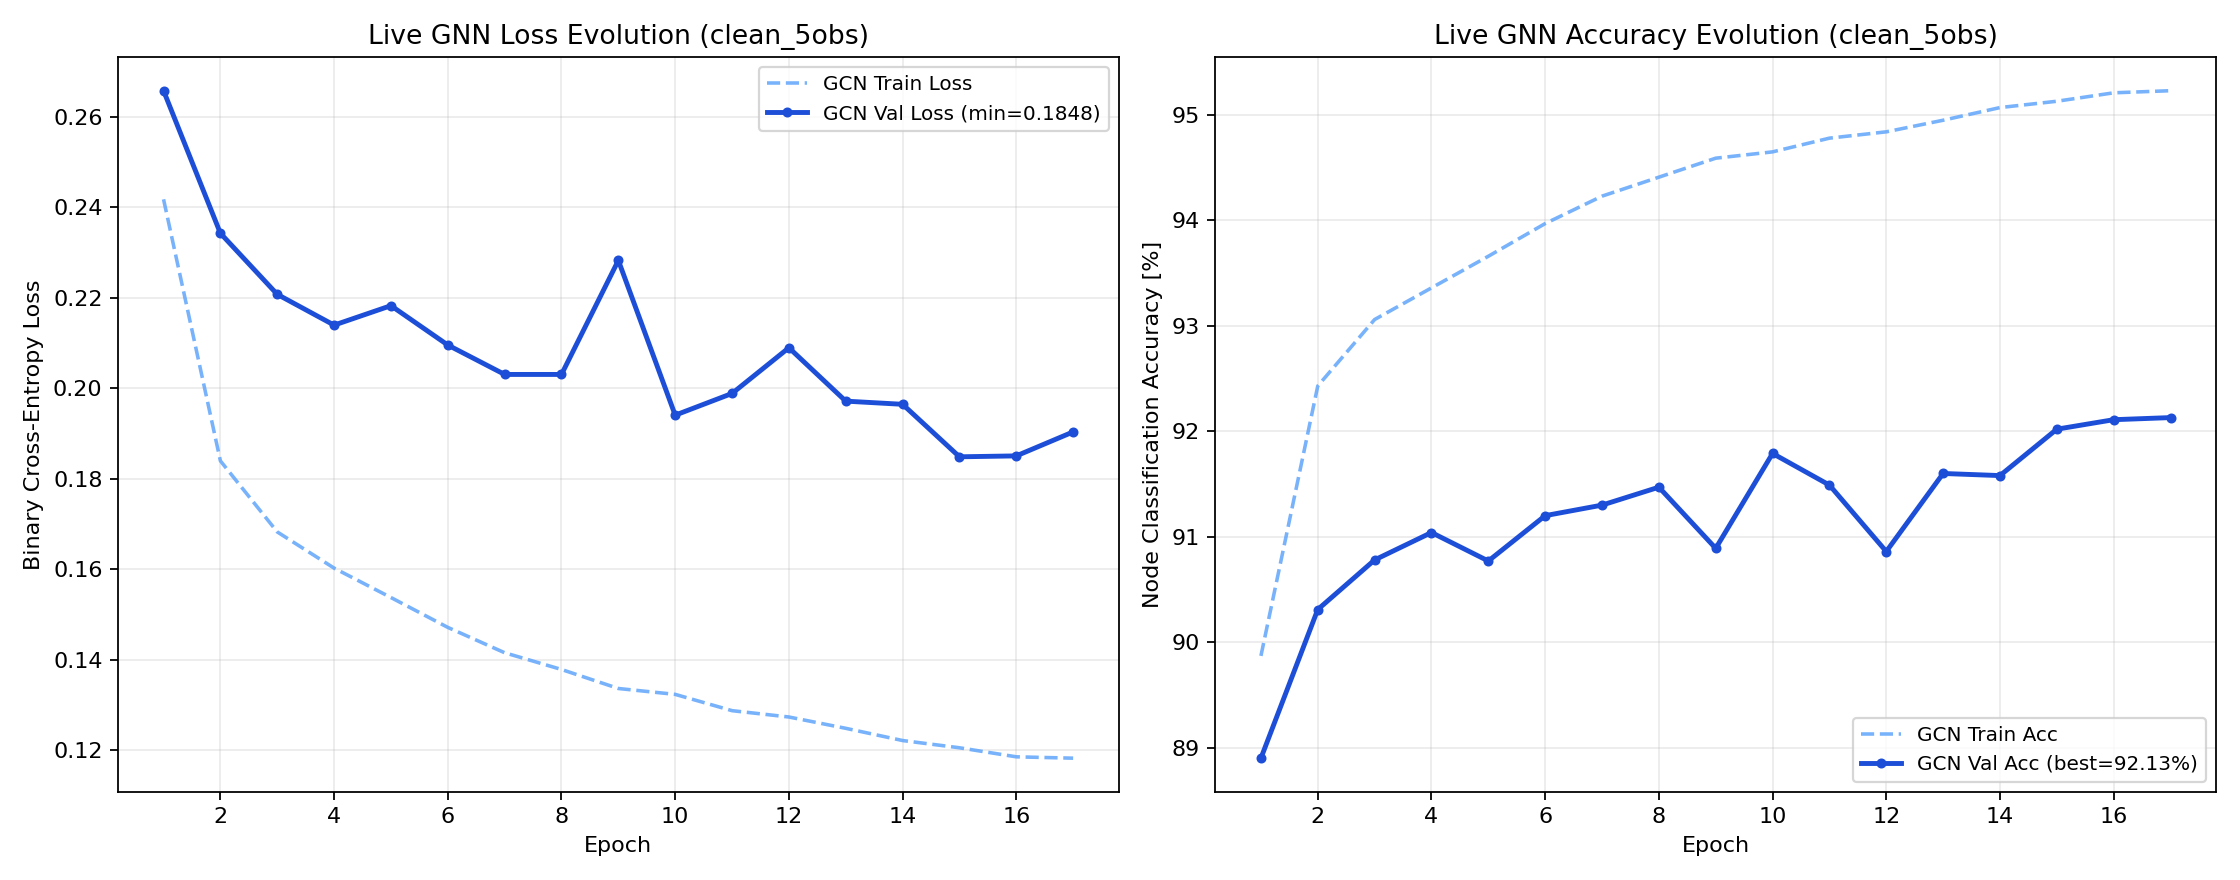
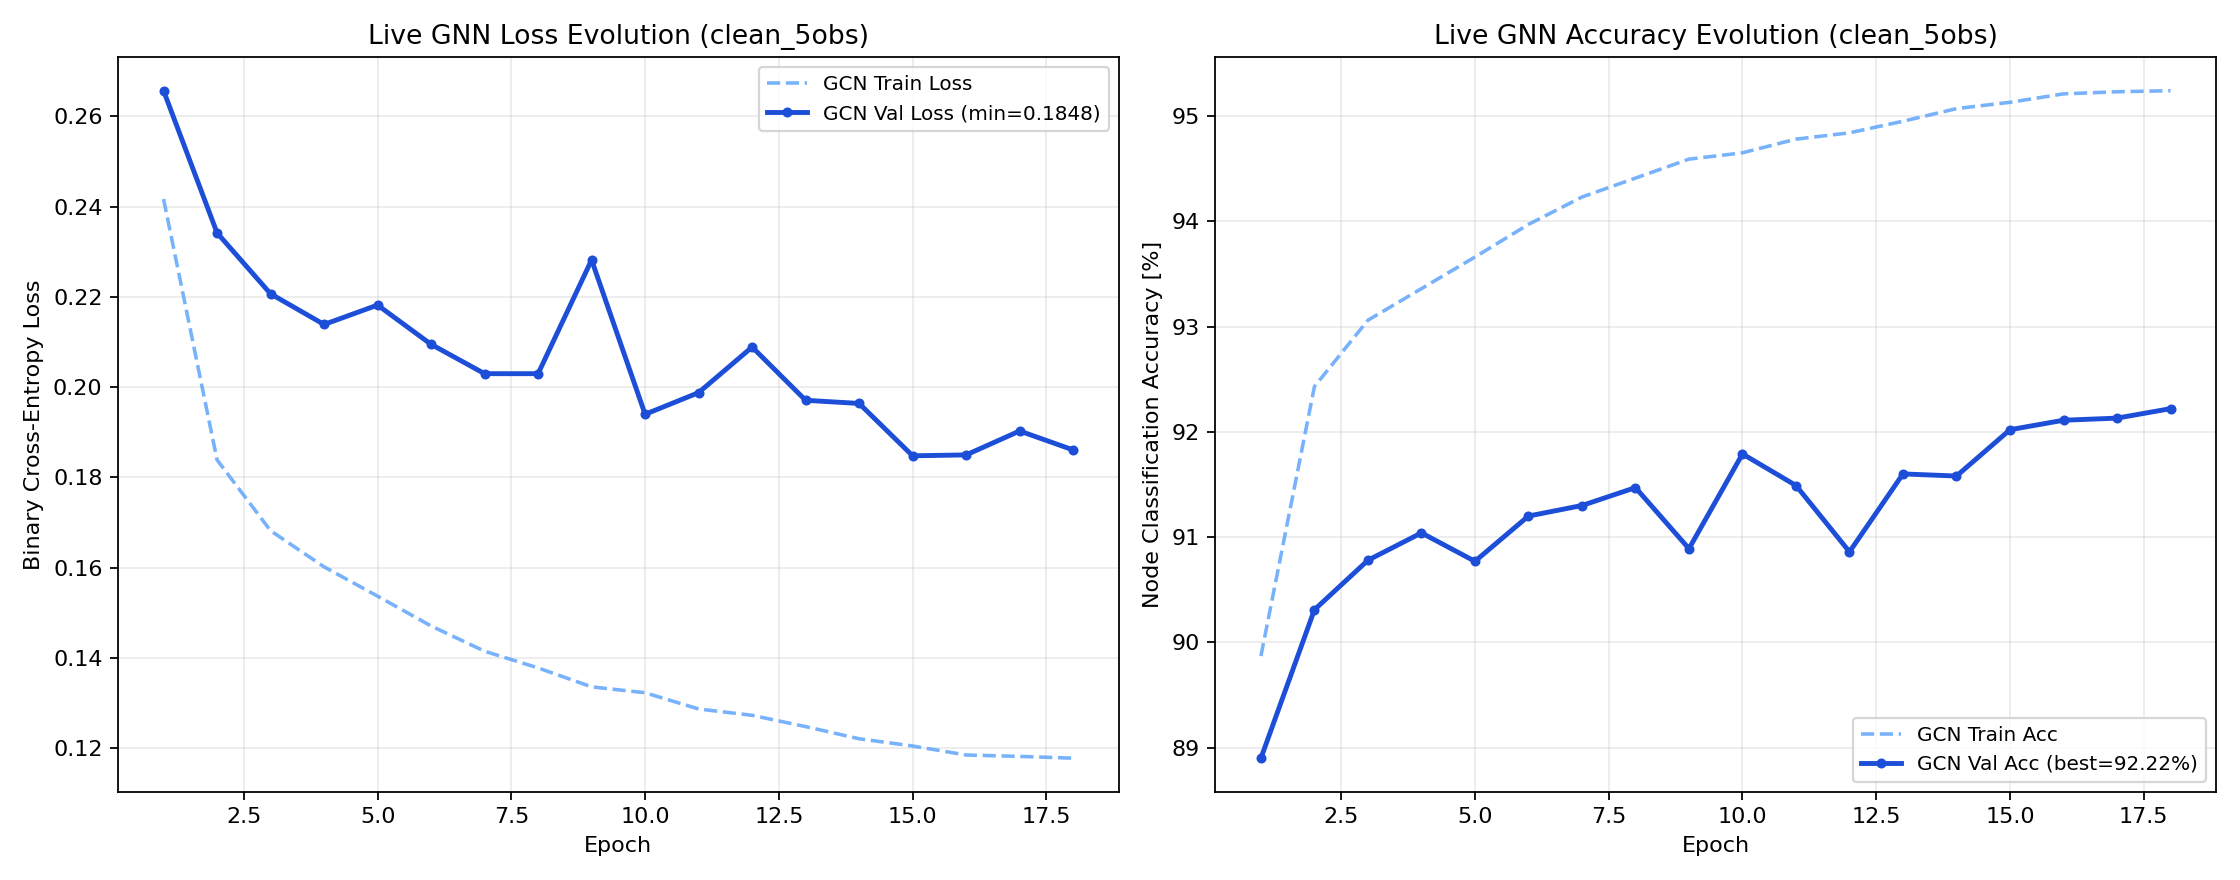
Update Study 2 live status and figures (2026-11-09 07:05)

diff --git a/LIVE_STATUS.md b/LIVE_STATUS.md
@@ -1,25 +1,25 @@
 # Live Pipeline Status on Jed
 
 ```text
-[2026-11-09 07:00:46] Study 2 Pipeline Status on Jed
+[2026-11-09 07:05:55] Study 2 Pipeline Status on Jed
 - Step 1 (Plummer ICs): 81 / 81 ready
 - Step 2 (SWIFT Runs): 81 / 81 completed (101 snapshots)
 - Step 3 (Observables): Labels=81/81 | Clean=81/81 | GaiaNoisy=81/81
 - Step 4 (5D Graphs): Clean=81/81 | GaiaNoisy=81/81
 - Step 5/6 Live GNN Training Progress:
-  * clean_5obs/training_metrics_gcn_clean.log: Ep 017 | Train 0.1182 (95.23%) | Val 0.1903 (92.13%, Best=92.13%) | Test=In progress
+  * clean_5obs/training_metrics_gcn_clean.log: Ep 018 | Train 0.1178 (95.24%) | Val 0.1861 (92.22%, Best=92.22%) | Test=In progress
 
 SLURM Queue:
 JOBID  PARTITION                   NAME   ST       TIME  NODES NODELIST(REASON)
 40998767_[0-4%   academic      Study2_Step6_4Obs   PD       0:00      2 (Dependency)
-      40998766   academic   Study2_Step5_Train81    R   14:30:58      2 jst[072,076]
+      40998766   academic   Study2_Step5_Train81    R   14:36:07      2 jst[072,076]
 ```
 
 ## Live Neural Network Training Metrics
 
 | Experiment | Architecture | Latest Epoch | Train Loss | Train Acc | Val Loss | Val Acc | Best Val Acc | Test Acc | Test F1 |
 | :--- | :---: | :---: | :---: | :---: | :---: | :---: | :---: | :---: | :---: |
-| `clean_5obs` | **GCN** | 17 | 0.1182 | 95.23% | 0.1903 | 92.13% | **92.13%** | **In progress** | - |
+| `clean_5obs` | **GCN** | 18 | 0.1178 | 95.24% | 0.1861 | 92.22% | **92.22%** | **In progress** | - |
 
 ## Real-Time GNN Learning Curves (Loss & Accuracy Evolution)
 
